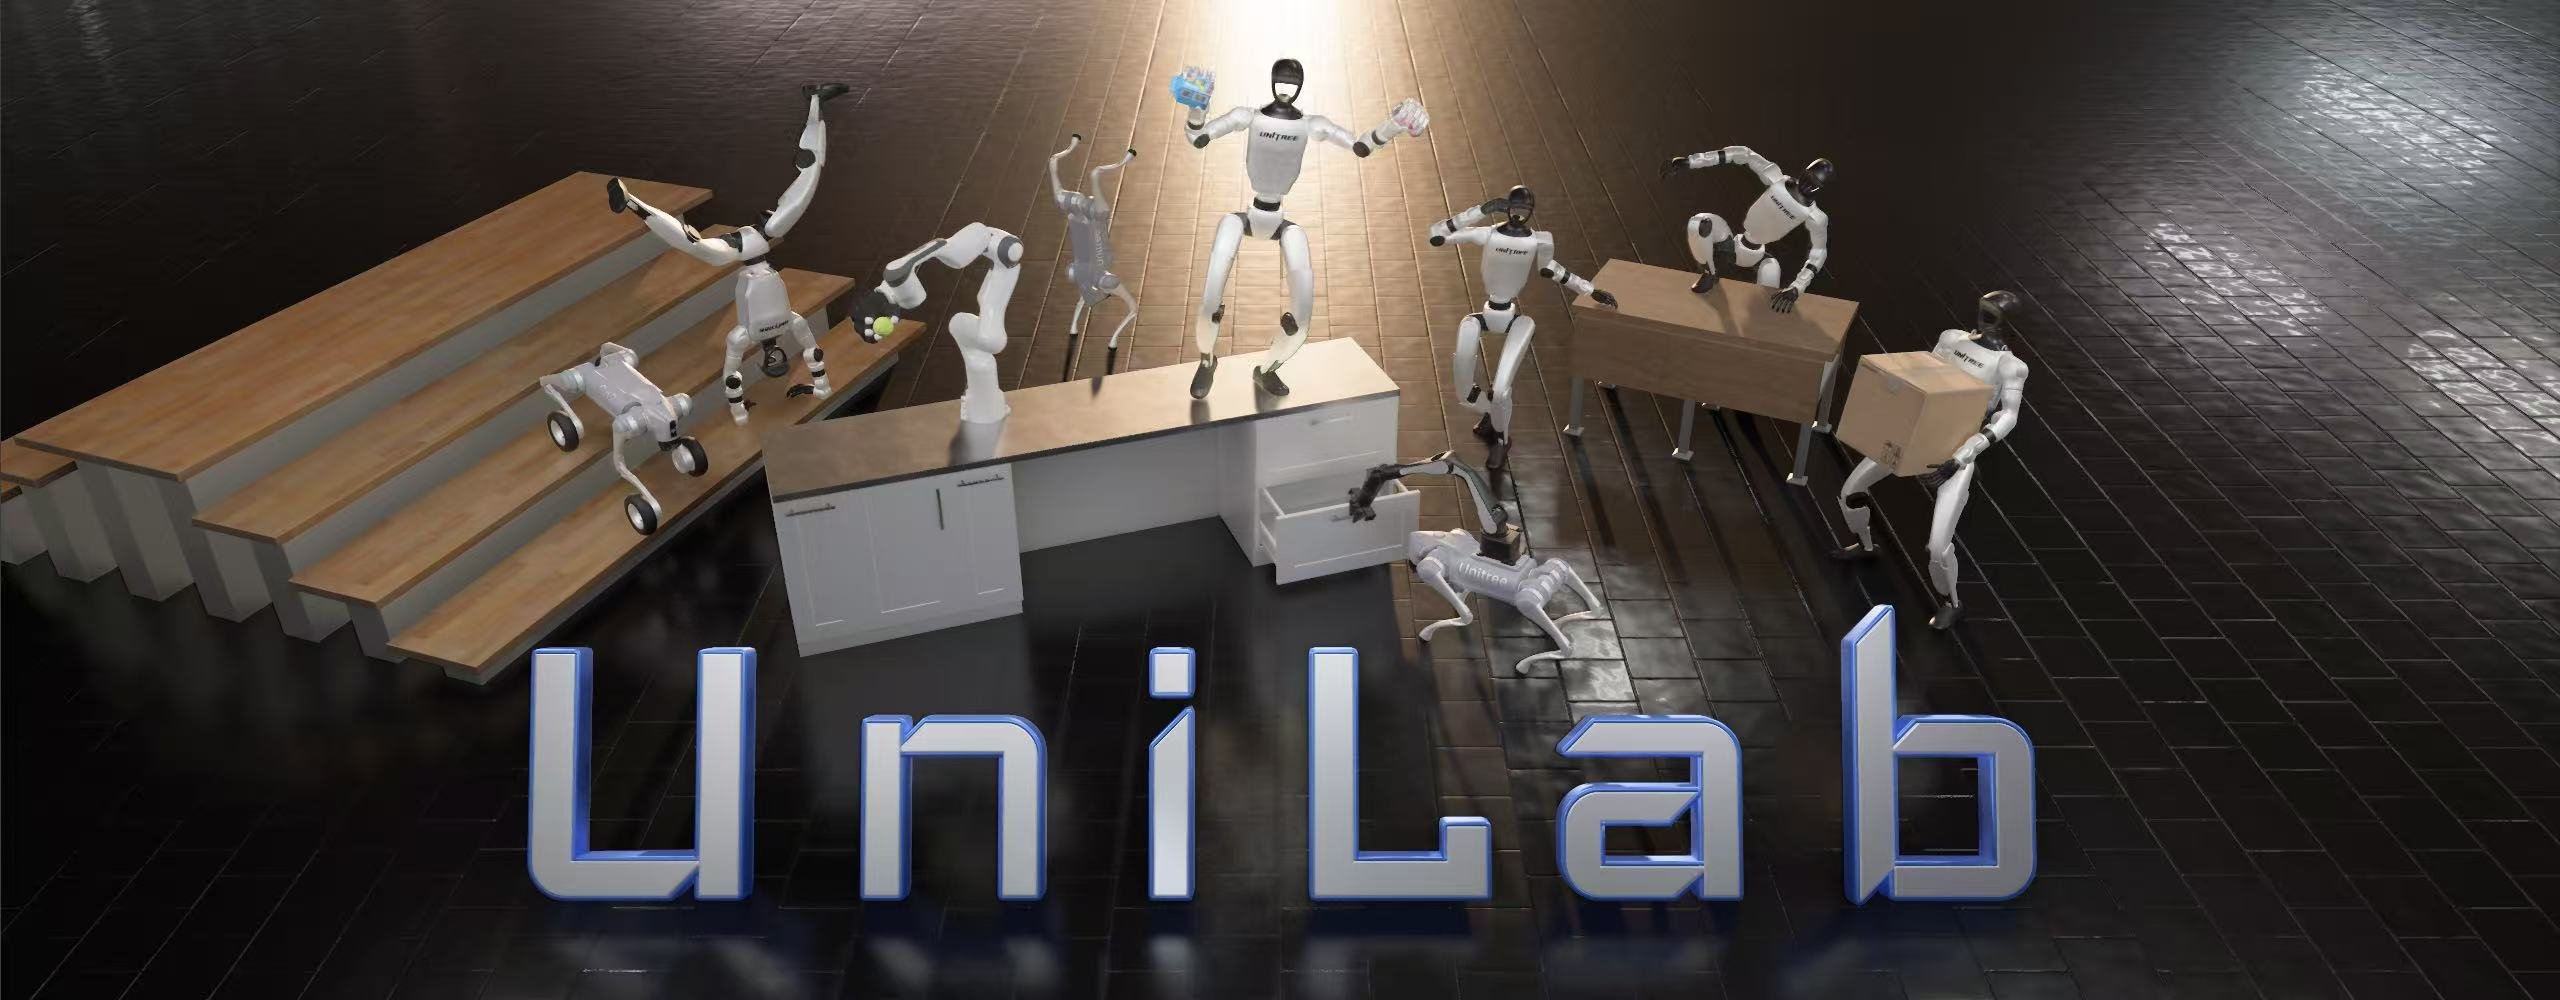
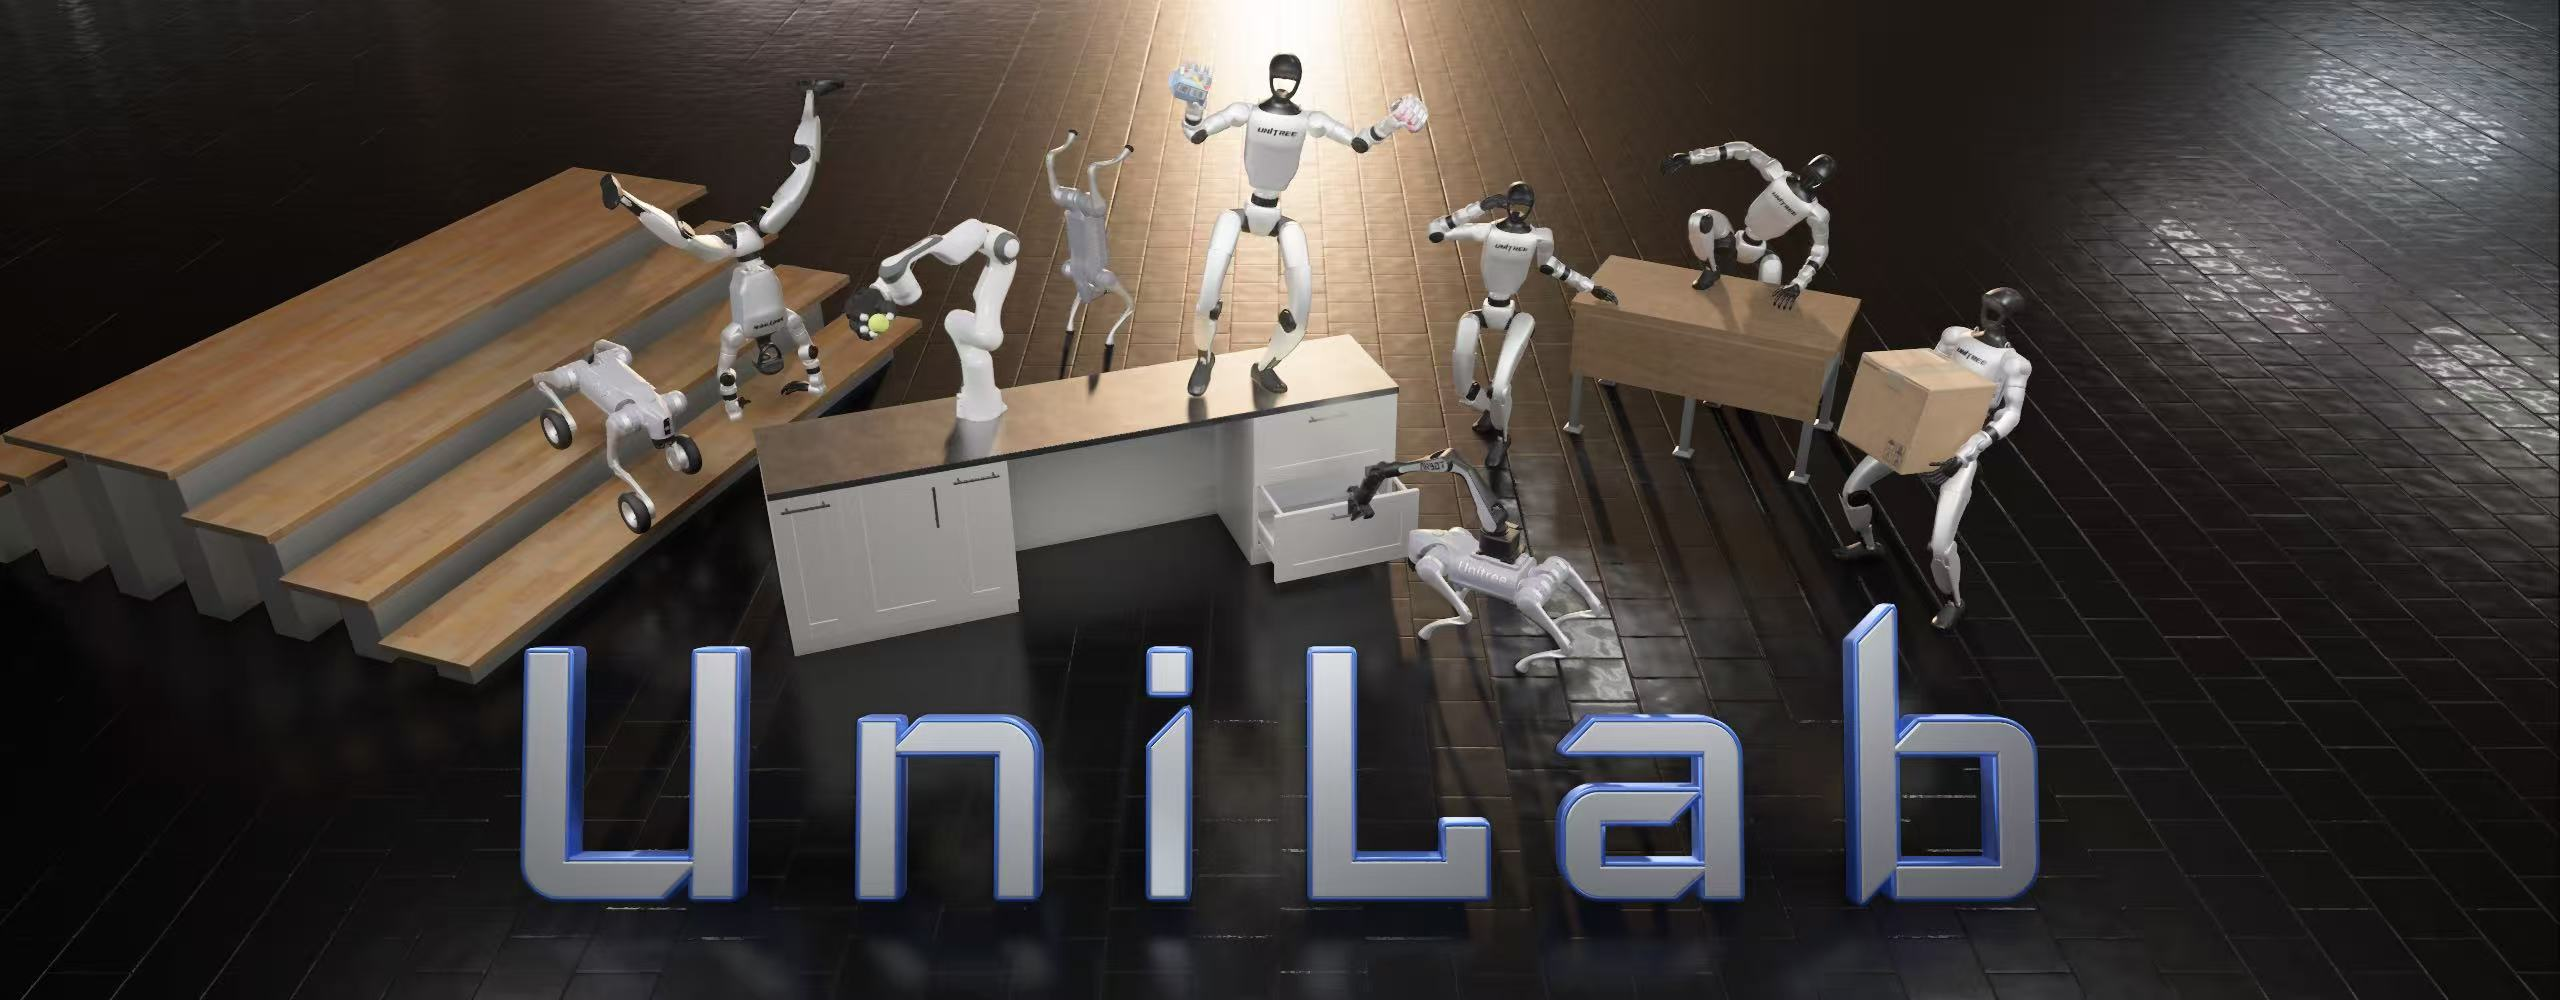
docs: fix citation bib and teaser

diff --git a/README.md b/README.md
@@ -118,14 +118,11 @@ Use [docs/README.md](docs/README.md) as the documentation index. High-signal ent
 ### UniLab
 
 ```bibtex
-@misc{jia2026UniLab,
+@article{jia2026unilab,
   title         = {UniLab: A Heterogeneous Architecture for Robot RL Beyond GPU-Dominant Paradigms},
   author        = {Yufei Jia and Zhanxiang Cao and Mingrui Yu and Heng Zhang and Shenyu Chen and Dixuan Jiang and Meng Li and Xiaofan Li and Yiyang Liu and Junzhe Wu and Zheng Li and XiLin Fang and Tingyu Cui and Shengcheng Fu and Haoyang Li and Anqi Wang and Zifan Wang and Dongjie Zhu and Chenyu Cao and Zhenbiao Huang and Ziang Zheng and Jie Lu and Xin Ma and Zhengyang Wei and Xiang Zhao and Tianyue Zhan and Ye He and Yuxiang Chen and Yizhou Jiang and Yue Li and Haizhou Ge and Yuhang Dong and Fan Jia and Ziheng Zhang and Meng Zhang and Xiwa Deng and Zhixing Chen and Hanyang Shao and Chenxin Dong and Yixuan Li and Yizhi Chen and Bokui Chen and Kaifeng Zhang and Hanqing Cui and Yusen Qin and Ruqi Huang and Lei Han and Tiancai Wang and Xiang Li and Yue Gao and Guyue Zhou},
-  year          = {2026},
-  eprint        = {2605.30313},
-  archivePrefix = {arXiv},
-  primaryClass  = {cs.RO},
-  url           = {https://arxiv.org/abs/2605.30313}
+  journal       = {arXiv preprint arXiv:2605.30313},
+  year          = {2026}
 }
 ```
 